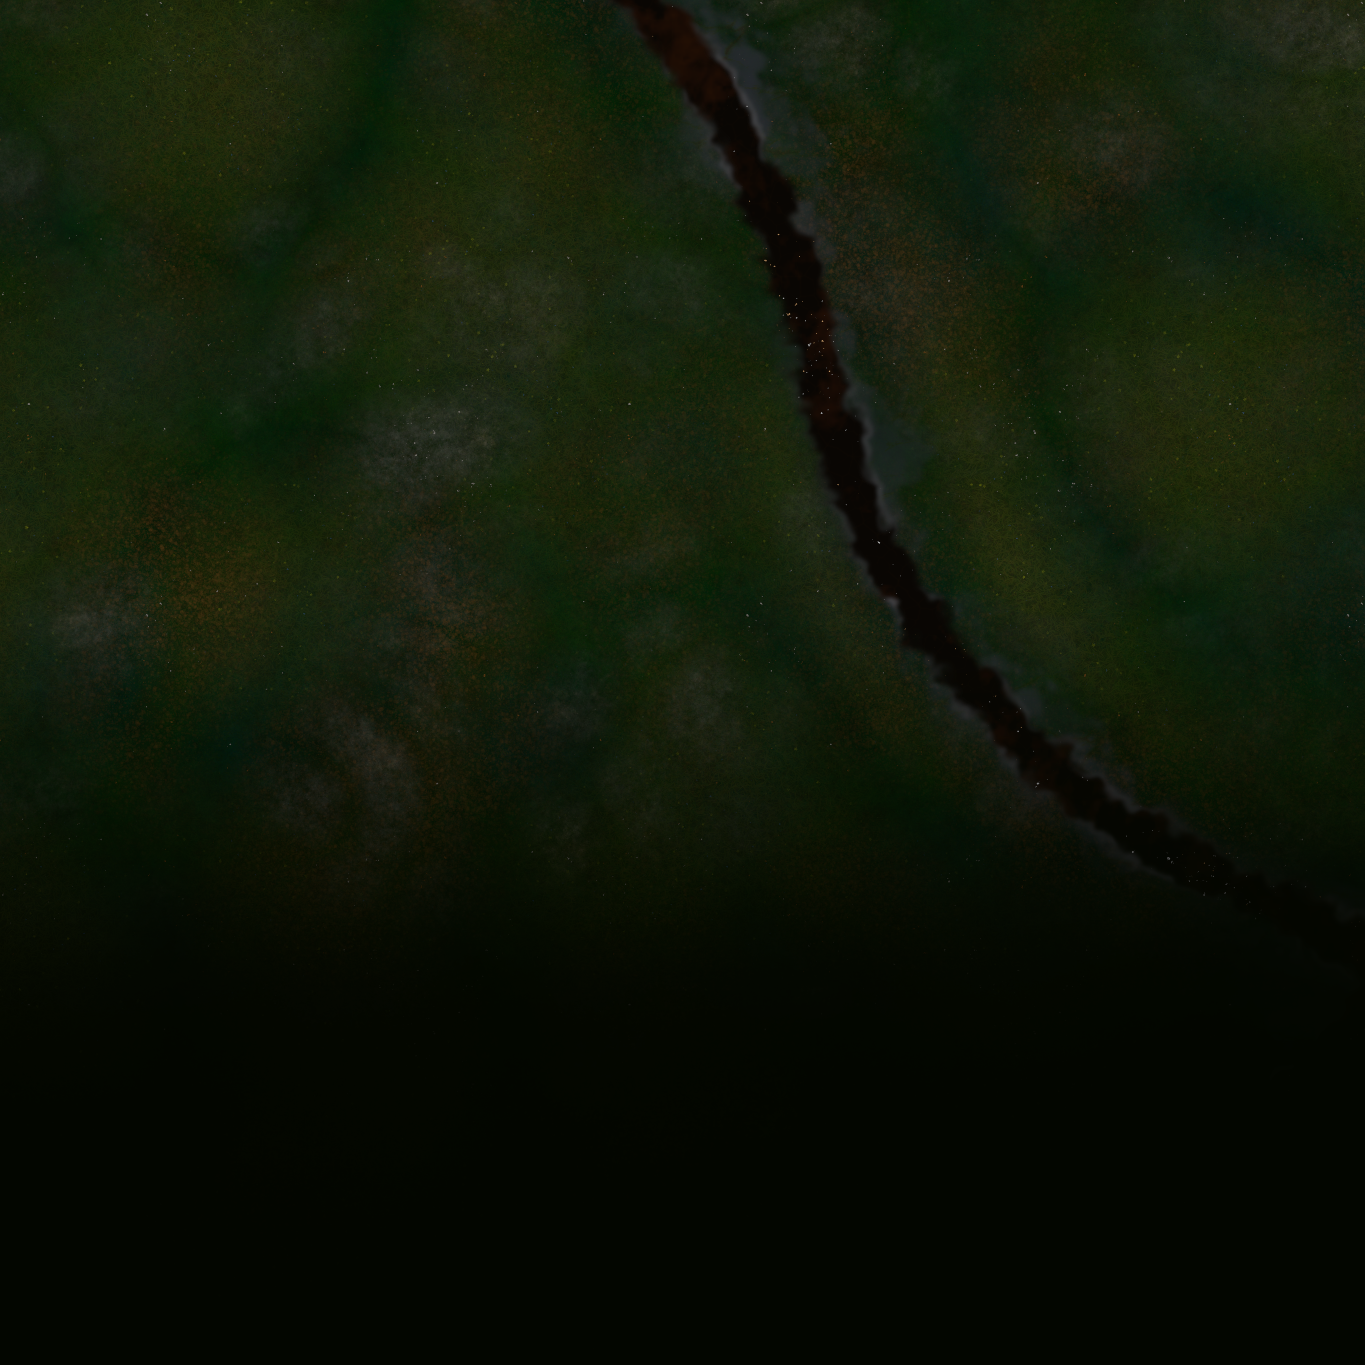
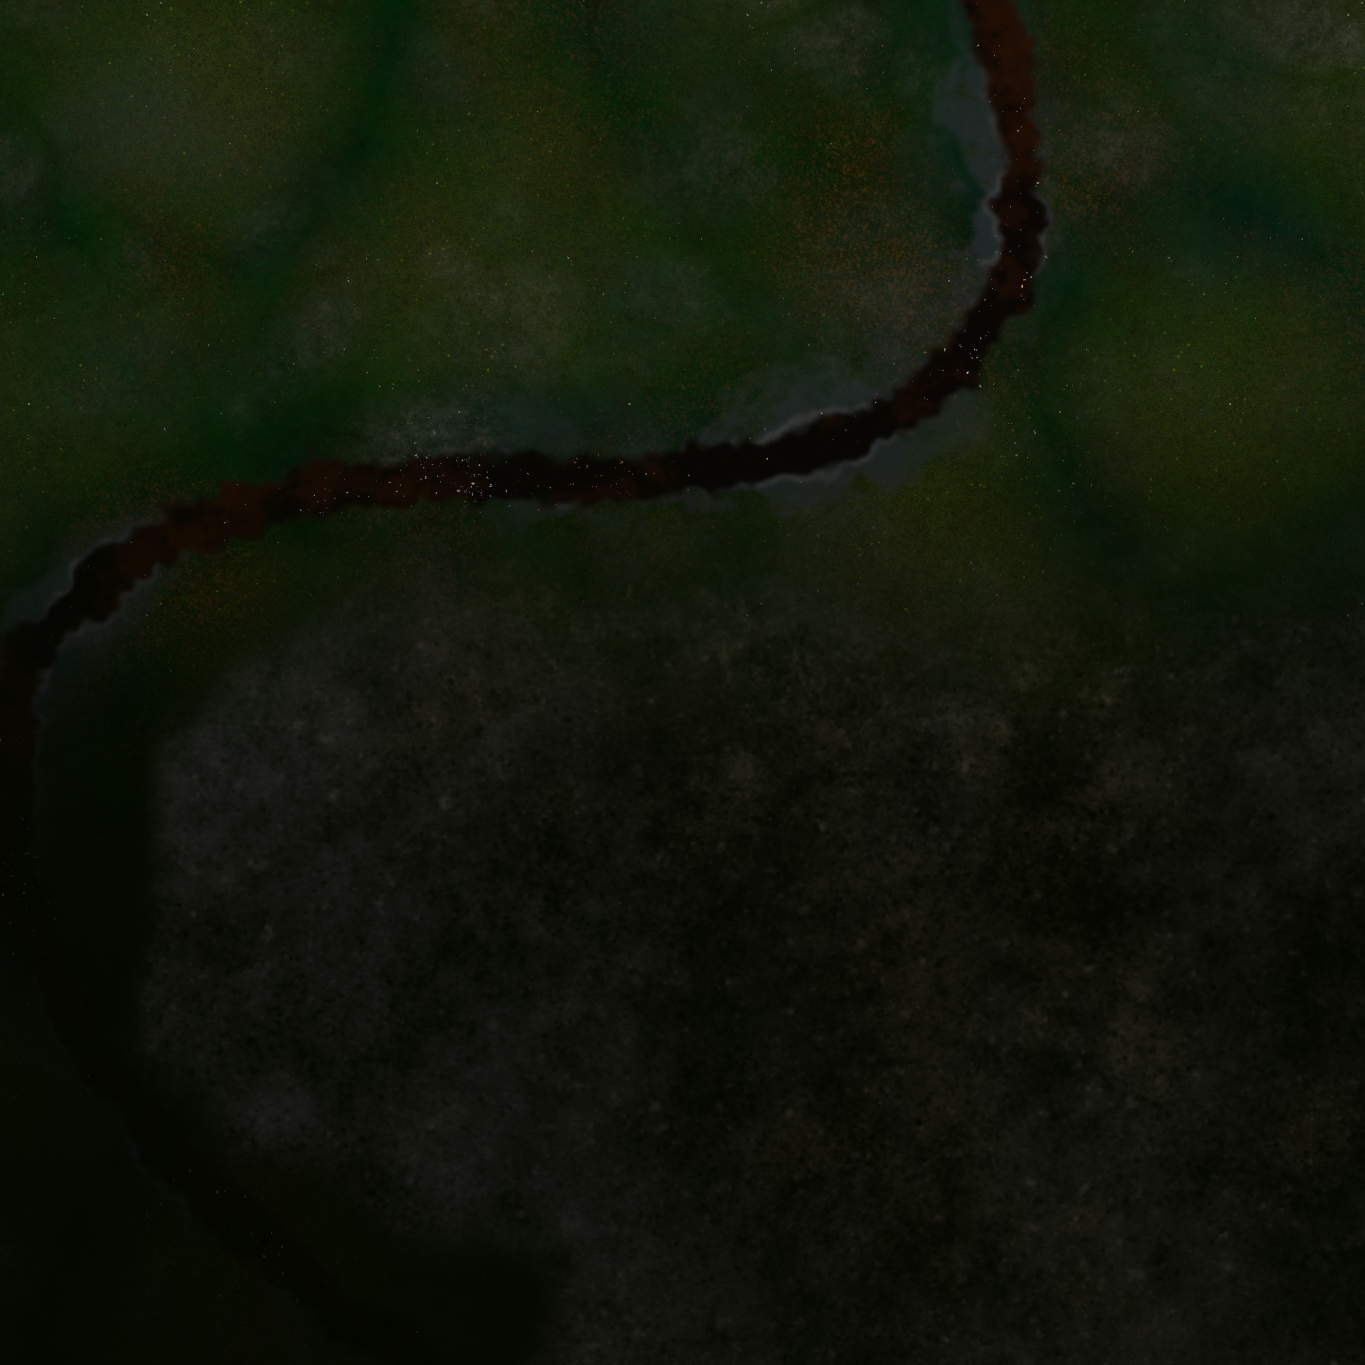
feat: add mountains

diff --git a/src/Scene/Chunks/Chunks.tsx b/src/Scene/Chunks/Chunks.tsx
@@ -68,7 +68,7 @@ const Chunks = memo(function Chunks({}) {
                 plane.material['normalMap'] = textures[`${textureX}_${textureZ}/normalMap`]
                 plane.material['roughnessMap'] = textures[`${textureX}_${textureZ}/roughnessMap`]
                 plane.material['metalnessMap'] = textures[`${textureX}_${textureZ}/metalnessMap`]
-                // plane.material['displacementMap'] = textures[`${textureX}_${textureZ}/heightMap`]
+                plane.material['displacementMap'] = textures[`${textureX}_${textureZ}/displacementMap`]
                 // plane.material['aoMap'] = textures[`${textureX}_${textureZ}/occlusionMap`]
             }
             
@@ -137,7 +137,7 @@ const SwapChunk = forwardRef(({ geometry, index }: SwapChunkProps, ref: any) => 
             rotation={[Math.PI / -2, 0, 0]}
             geometry={geometry}
         >
-            <meshStandardMaterial/>
+            <meshStandardMaterial displacementScale={5} displacementBias={-2.5} />
         </mesh>
     )
 })

diff --git a/src/Scene/Chunks/useLocationTextures.ts b/src/Scene/Chunks/useLocationTextures.ts
@@ -19,9 +19,7 @@ export const useLocationTextures = () => {
                 data[`${i}_${j}/normalMap`] = `worlds/${location.toLowerCase()}/normalMap/${i}_${j}.png`
                 data[`${i}_${j}/roughnessMap`] = `worlds/${location.toLowerCase()}/roughnessMap/${i}_${j}.png`
                 data[`${i}_${j}/metalnessMap`] = `worlds/${location.toLowerCase()}/metalnessMap/${i}_${j}.png`
-                // data[`${i}_${j}/heightMap`] = `worlds/${location.toLowerCase()}/heightMap/${i}_${j}.png`
-
-                // data[`${i}_${j}/occlusionMap`] = `worlds/${location.toLowerCase()}/occlusionMap/${i}_${j}.png`
+                data[`${i}_${j}/displacementMap`] = `worlds/${location.toLowerCase()}/heightMap/${i}_${j}.png`
             }
         }
         return data

diff --git a/src/Scene/useCore.ts b/src/Scene/useCore.ts
@@ -214,7 +214,7 @@ export const useCore = createWithEqualityFn<CoreInterface>((set, get) => ({
         return get().sceneObjects[id] || null
     },
 
-    devMode: false,
+    devMode: true,
     setDevMode: (value) => set({ devMode: value }),
     
 }), shallow)
